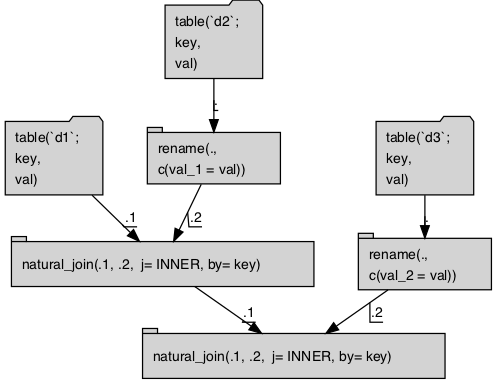
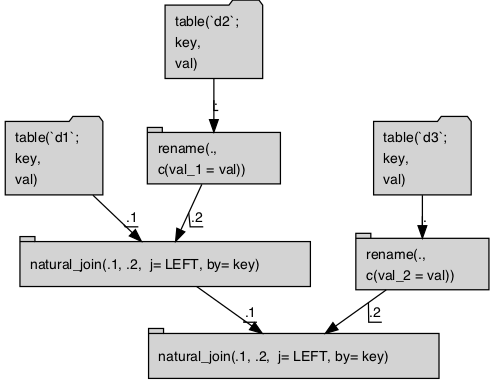
specify left join

diff --git a/extras/NestedJoin.md b/extras/NestedJoin.md
@@ -72,7 +72,7 @@ d1 %>%
   left_join(., d3, by = "key")
 ```
 
-    ## Error: org.apache.spark.sql.AnalysisException: cannot resolve '`TBL_LEFT.val.x`' given input columns: [val, key, val.x, val.y, key]; line 1 pos 34;
+    ## Error: org.apache.spark.sql.AnalysisException: cannot resolve '`TBL_LEFT.val.x`' given input columns: [key, val, val.x, val.y, key]; line 1 pos 34;
     ## 'Project [key#273 AS key#276, 'TBL_LEFT.val.x AS val.x#277, 'TBL_LEFT.val.y AS val.y#278, val#159 AS val#279]
     ## +- Join LeftOuter, (key#273 = key#158)
     ##    :- SubqueryAlias TBL_LEFT
@@ -252,8 +252,8 @@ d2r <- rename_it(d2d, col_table)
 d3r <- rename_it(d3d, col_table)
 
 optree <- d1r %.>% 
-  natural_join(., d2r, by = key) %.>% 
-  natural_join(., d3r, by = key) 
+  natural_join(., d2r, by = key, jointype = "LEFT") %.>% 
+  natural_join(., d3r, by = key, jointype = "LEFT") 
 
 # cat(format(optree))
 
@@ -272,23 +272,23 @@ cat(to_sql(optree, db))
 ```
 
     ## SELECT
-    ##  COALESCE(`tsql_97843980444552200041_0000000004`.`key`, `tsql_97843980444552200041_0000000005`.`key`) AS `key`,
-    ##  `tsql_97843980444552200041_0000000004`.`val` AS `val`,
-    ##  `tsql_97843980444552200041_0000000004`.`val_1` AS `val_1`,
-    ##  `tsql_97843980444552200041_0000000005`.`val_2` AS `val_2`
+    ##  COALESCE(`tsql_28751504393860215639_0000000004`.`key`, `tsql_28751504393860215639_0000000005`.`key`) AS `key`,
+    ##  `tsql_28751504393860215639_0000000004`.`val` AS `val`,
+    ##  `tsql_28751504393860215639_0000000004`.`val_1` AS `val_1`,
+    ##  `tsql_28751504393860215639_0000000005`.`val_2` AS `val_2`
     ## FROM (
     ##  SELECT
-    ##   COALESCE(`tsql_97843980444552200041_0000000001`.`key`, `tsql_97843980444552200041_0000000002`.`key`) AS `key`,
-    ##   `tsql_97843980444552200041_0000000001`.`val` AS `val`,
-    ##   `tsql_97843980444552200041_0000000002`.`val_1` AS `val_1`
+    ##   COALESCE(`tsql_28751504393860215639_0000000001`.`key`, `tsql_28751504393860215639_0000000002`.`key`) AS `key`,
+    ##   `tsql_28751504393860215639_0000000001`.`val` AS `val`,
+    ##   `tsql_28751504393860215639_0000000002`.`val_1` AS `val_1`
     ##  FROM (
     ##   SELECT
     ##    `key`,
     ##    `val`
     ##   FROM
     ##    `d1`
-    ##  ) `tsql_97843980444552200041_0000000001`
-    ##  INNER JOIN (
+    ##  ) `tsql_28751504393860215639_0000000001`
+    ##  LEFT JOIN (
     ##   SELECT
     ##    `key` AS `key`,
     ##    `val` AS `val_1`
@@ -298,12 +298,12 @@ cat(to_sql(optree, db))
     ##     `val`
     ##    FROM
     ##     `d2`
-    ##   ) tsql_97843980444552200041_0000000000
-    ##  ) `tsql_97843980444552200041_0000000002`
+    ##   ) tsql_28751504393860215639_0000000000
+    ##  ) `tsql_28751504393860215639_0000000002`
     ##  ON
-    ##   `tsql_97843980444552200041_0000000001`.`key` = `tsql_97843980444552200041_0000000002`.`key`
-    ## ) `tsql_97843980444552200041_0000000004`
-    ## INNER JOIN (
+    ##   `tsql_28751504393860215639_0000000001`.`key` = `tsql_28751504393860215639_0000000002`.`key`
+    ## ) `tsql_28751504393860215639_0000000004`
+    ## LEFT JOIN (
     ##  SELECT
     ##   `key` AS `key`,
     ##   `val` AS `val_2`
@@ -313,10 +313,10 @@ cat(to_sql(optree, db))
     ##    `val`
     ##   FROM
     ##    `d3`
-    ##  ) tsql_97843980444552200041_0000000003
-    ## ) `tsql_97843980444552200041_0000000005`
+    ##  ) tsql_28751504393860215639_0000000003
+    ## ) `tsql_28751504393860215639_0000000005`
     ## ON
-    ##  `tsql_97843980444552200041_0000000004`.`key` = `tsql_97843980444552200041_0000000005`.`key`
+    ##  `tsql_28751504393860215639_0000000004`.`key` = `tsql_28751504393860215639_0000000005`.`key`
 
 ``` r
 execute(db, optree) %.>%
